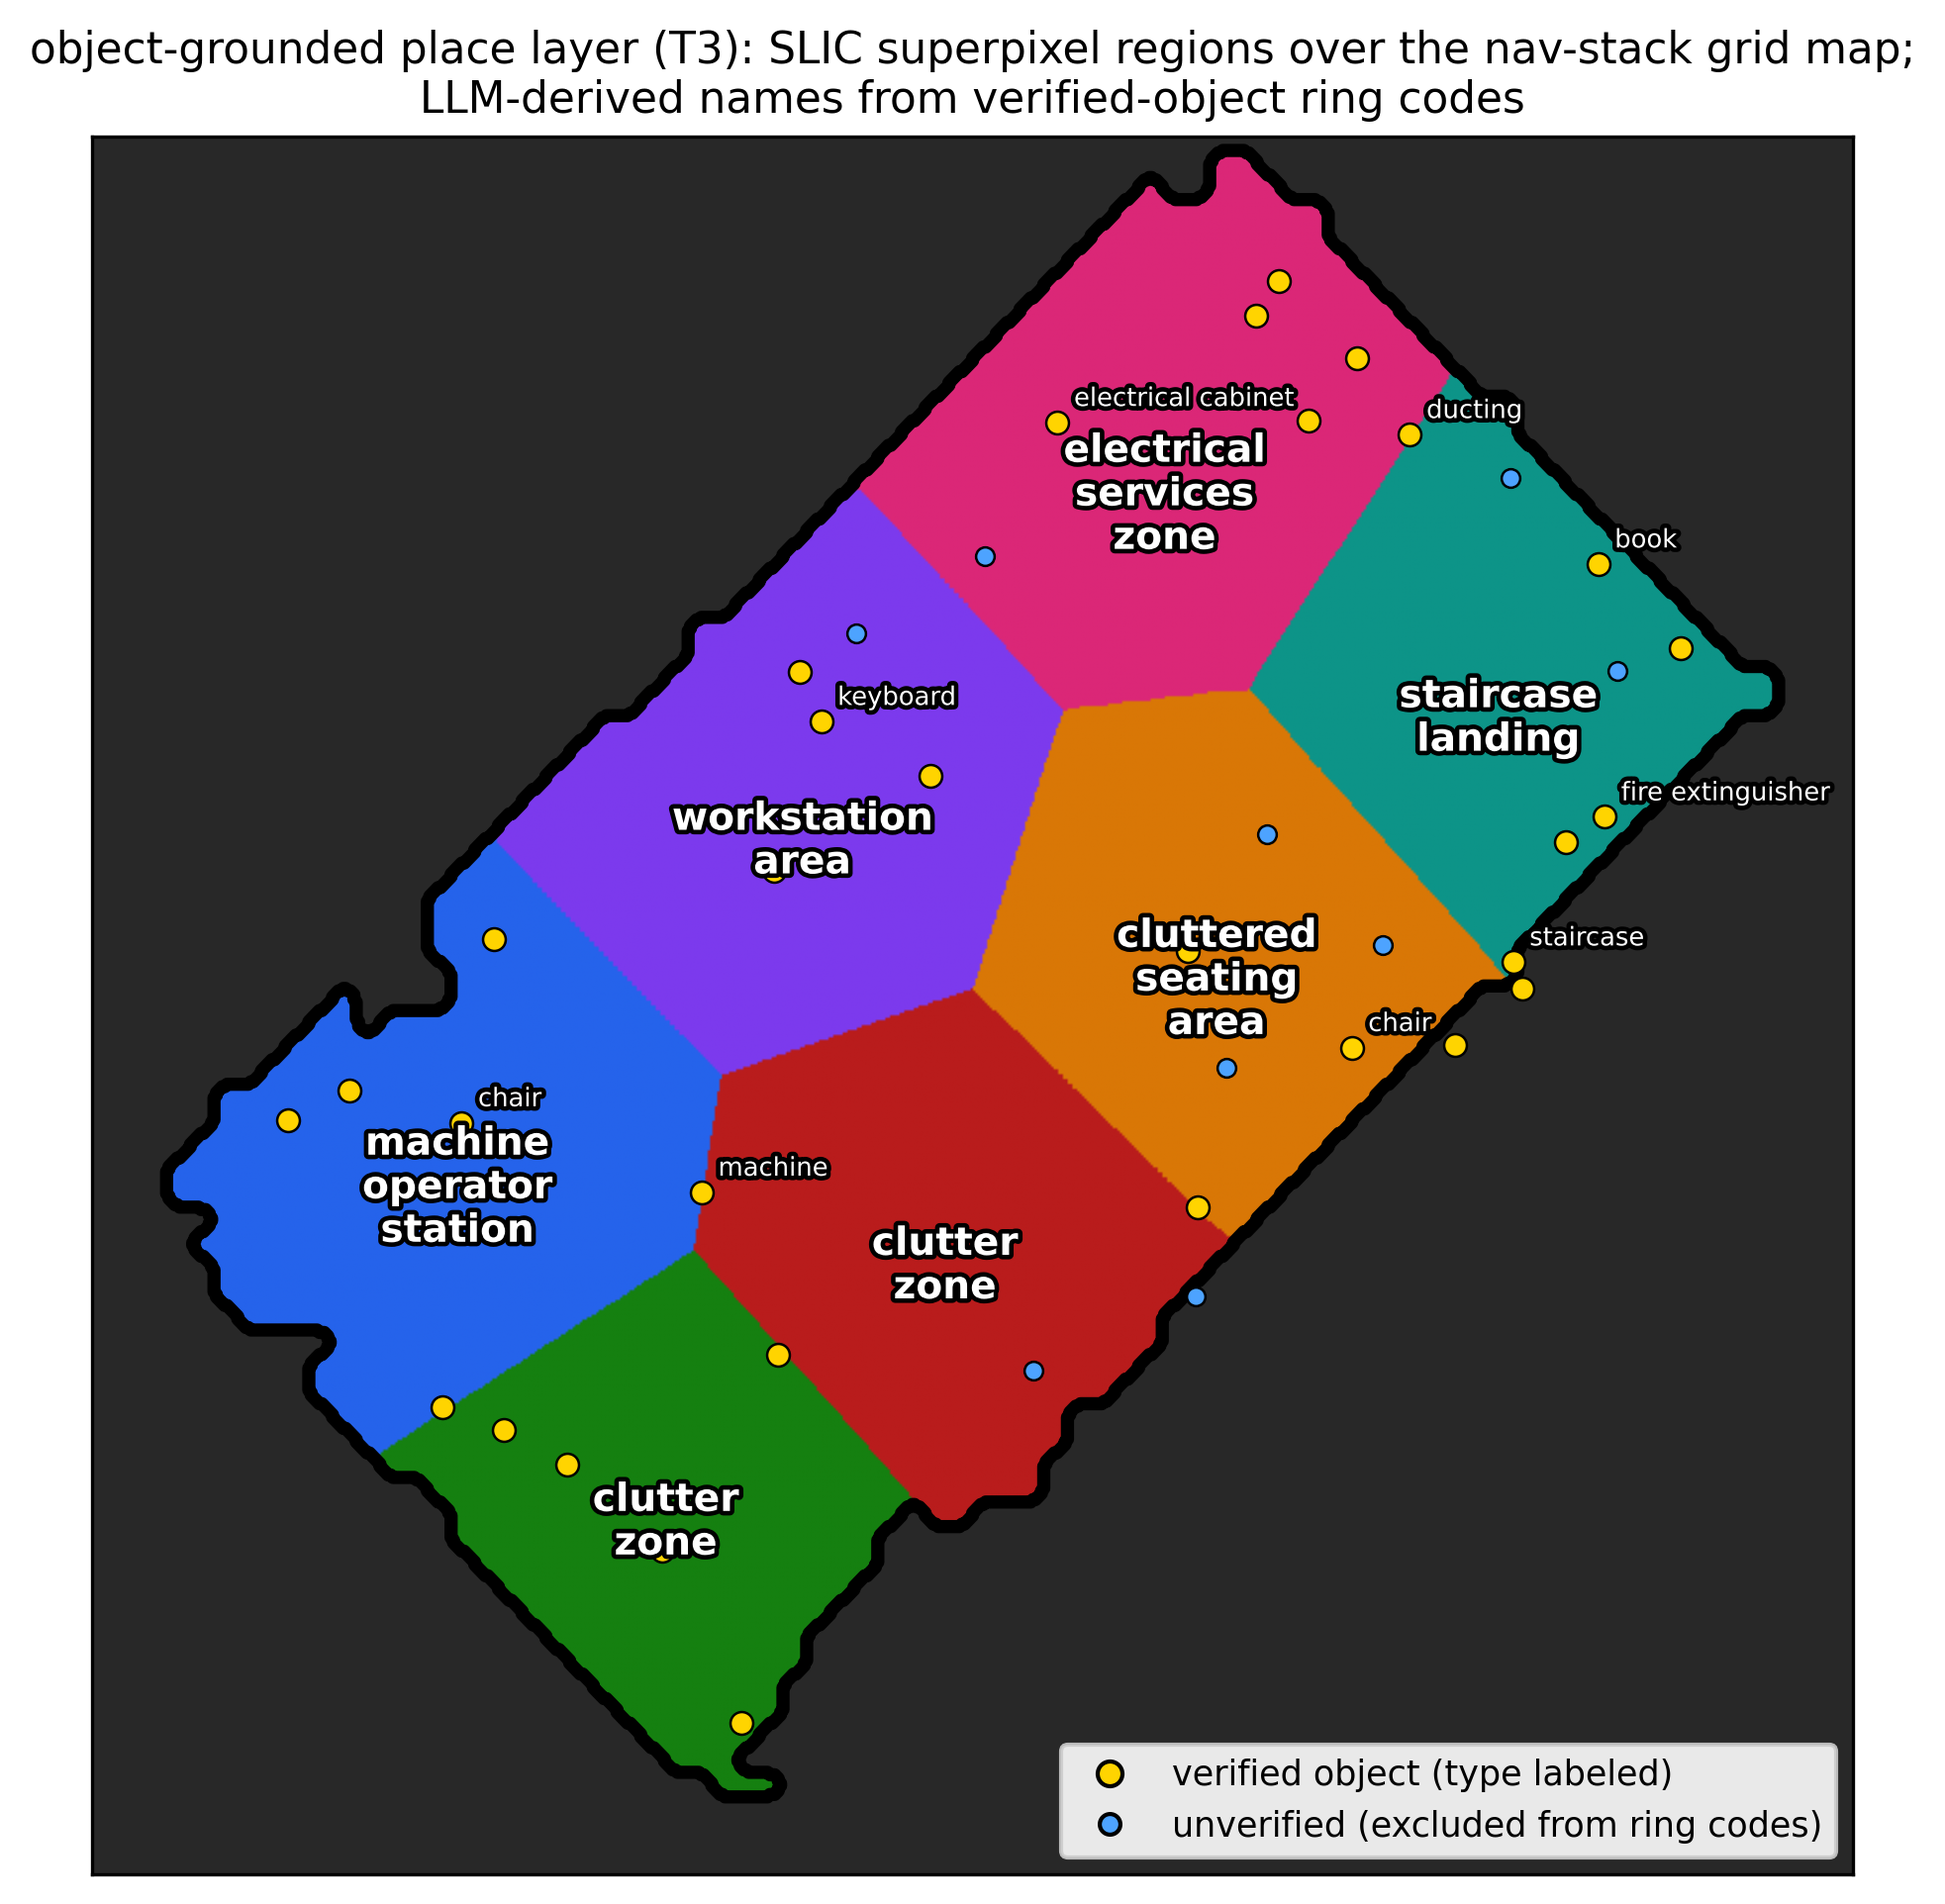
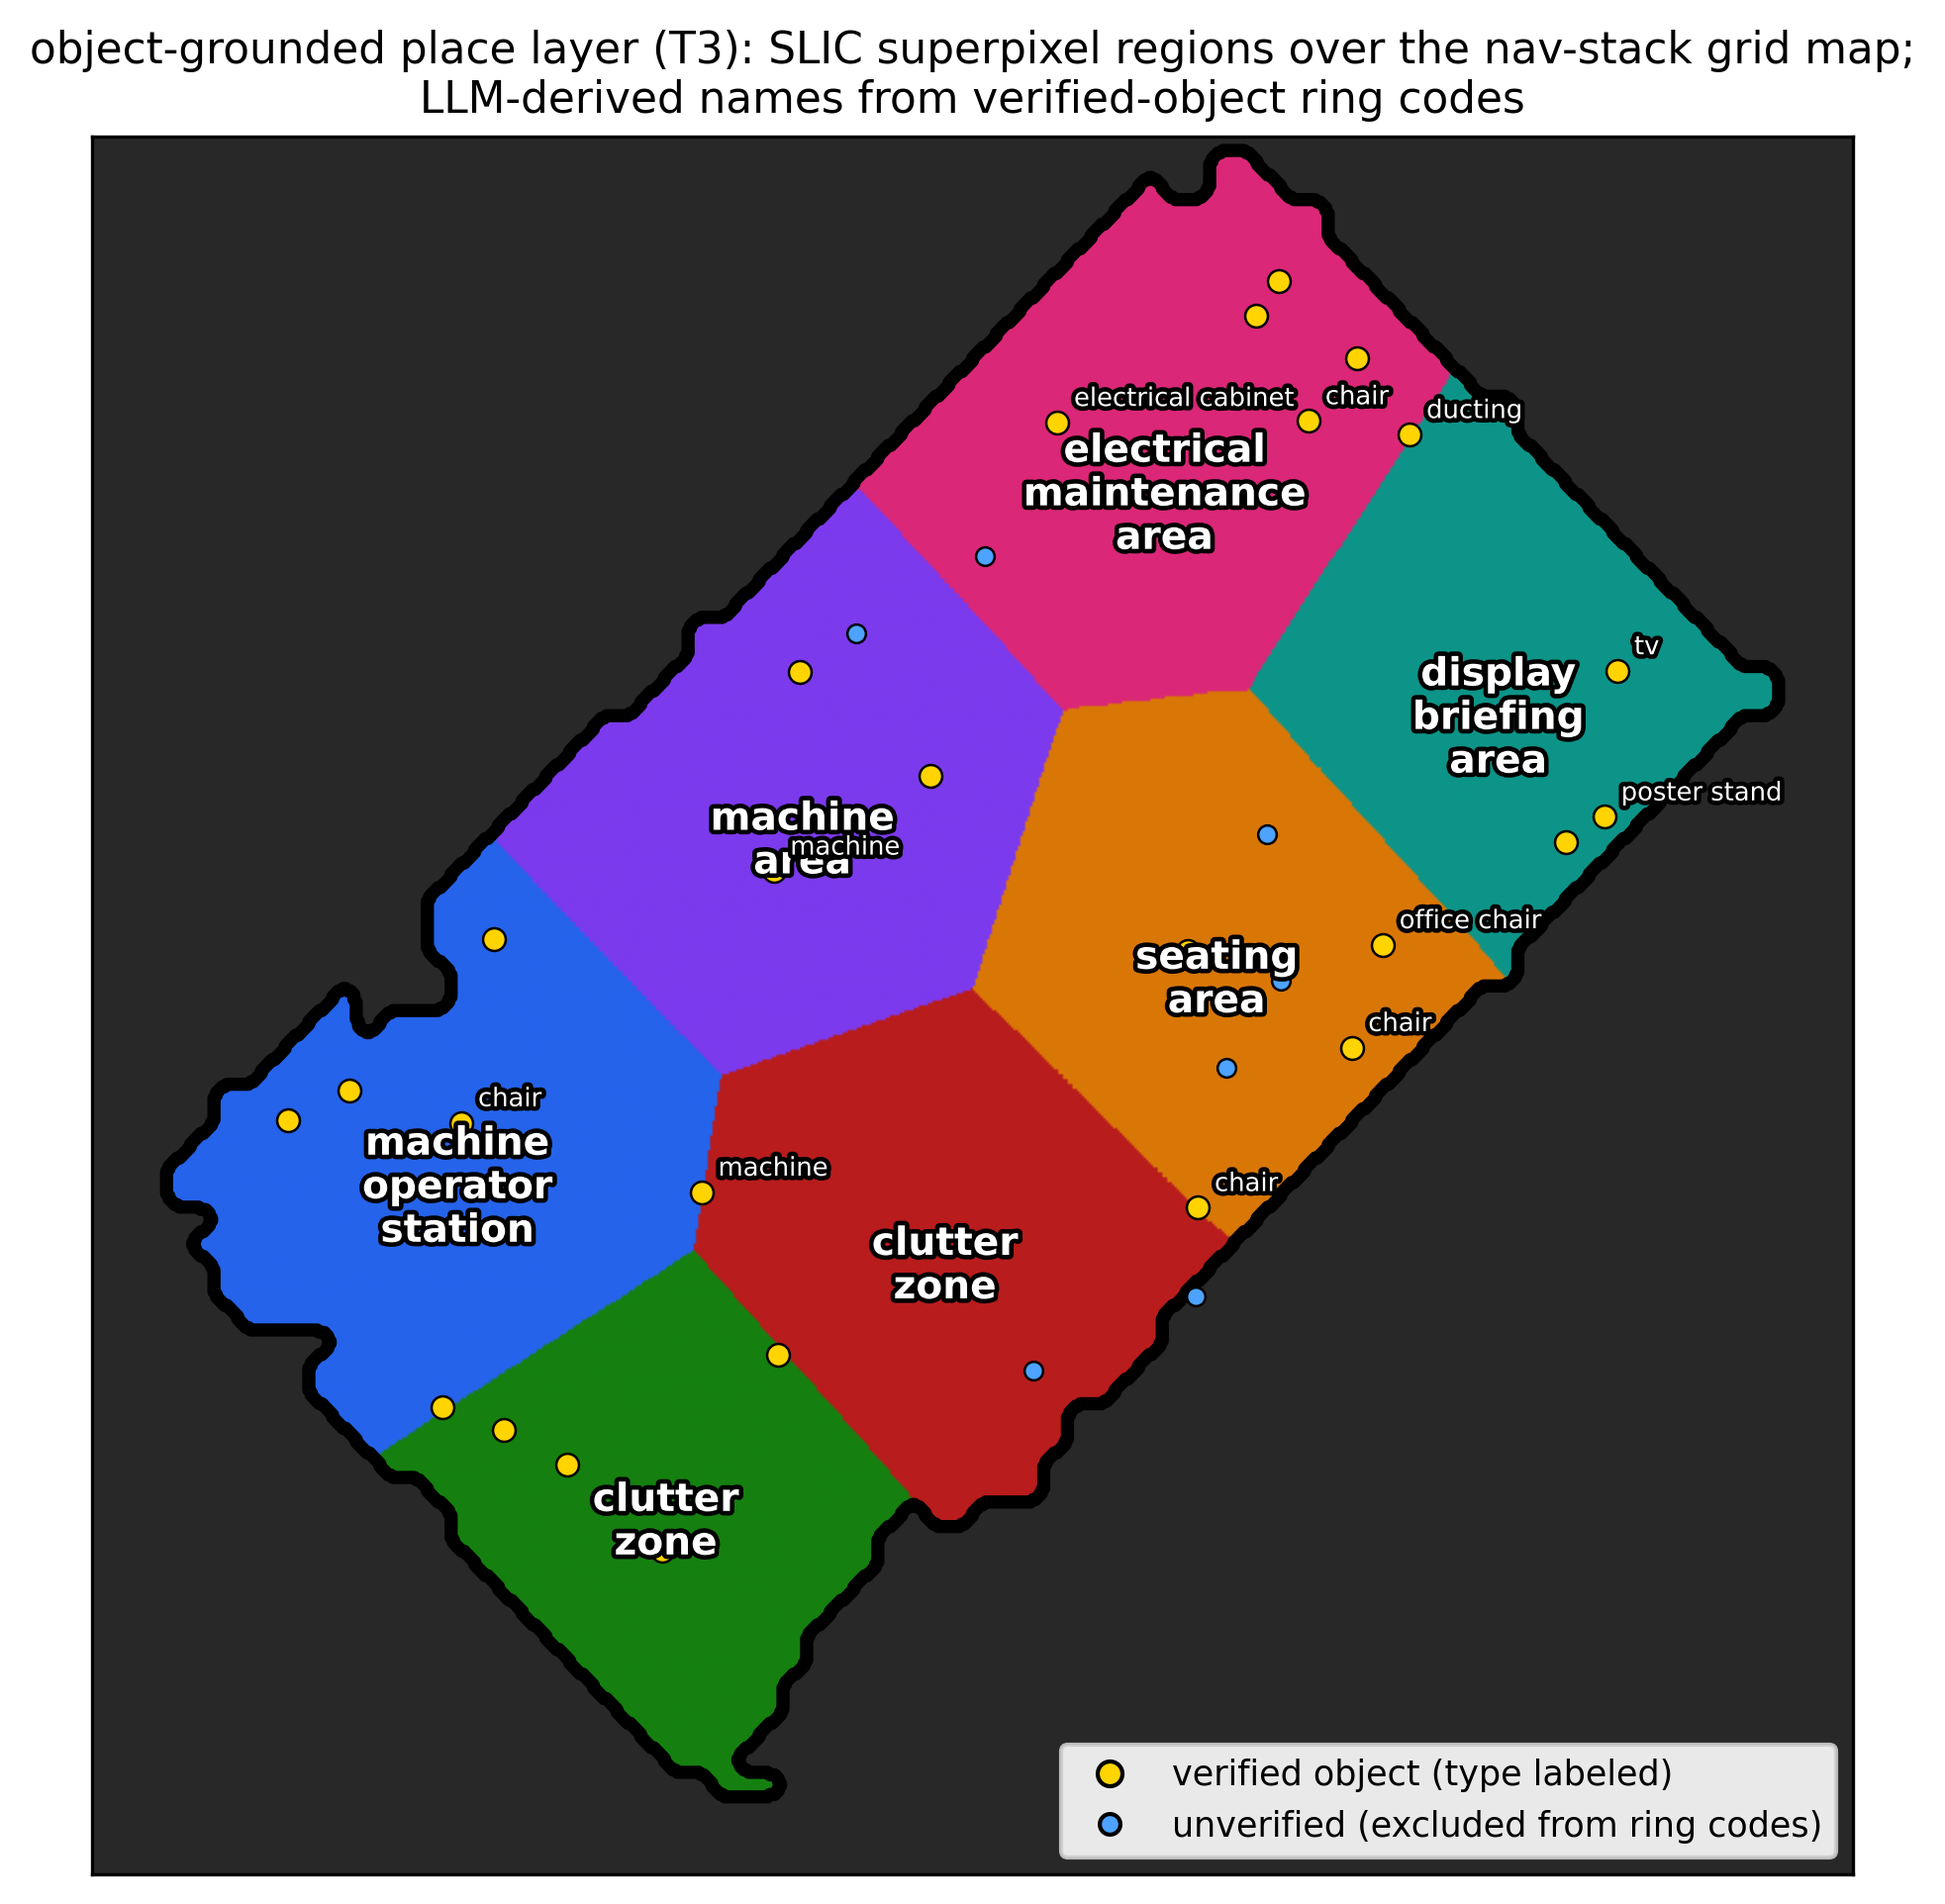
rev4 ring re-naming: staircase_landing->display_briefing_area, workstation_area->machine_area; fig11 markers from KG rev4; place-layer healing in 5.3

diff --git a/docs/electronics2026/manuscript/sec5_experiments.tex b/docs/electronics2026/manuscript/sec5_experiments.tex
@@ -261,7 +261,15 @@ adopted labels are applied as a fourth KG revision through the same
 upsert history mechanism as a rescan: eight phantoms leave the graph,
 the poster stand is corrected in place, five recovered types land, the
 TV becomes its region's key object, and the relation layer sheds nine
-noise-anchored edges (25 to 16 intra-place).
+noise-anchored edges (25 to 16 intra-place). Re-deriving ring codes and
+names from the revised graph heals the place layer end-to-end: the
+phantom-derived \texttt{staircase\_landing} becomes
+\texttt{display\_briefing\_area} (TV + poster stand), the
+keyboard-derived \texttt{workstation\_area} becomes
+\texttt{machine\_area}, and the seating region's recovered chairs turn
+\texttt{cluttered\_seating\_area} into \texttt{seating\_area} ---
+owner feedback propagates through all three layers of the model: object,
+relation, and place.
 
 \begin{figure}[t]
 \centering

diff --git a/docs/electronics2026/manuscript/sec4_methodology.tex b/docs/electronics2026/manuscript/sec4_methodology.tex
@@ -295,6 +295,10 @@ layer of TOSM is out of scope here.
 regions~\cite{achanta2012slic} tile the room interior delimited by the
 nav-stack grid map's outer boundary and carry LLM-derived names computed
 from verified-object ring codes; unverified objects (blue markers) do not
-contribute, so the confidence gate propagates into place semantics.}
+contribute, so the confidence gate propagates into place semantics. Shown
+after the owner-feedback revision (Sec.~\ref{sec:exp-verify}): with the
+phantoms refuted, the region once named after a phantom staircase renames
+itself \texttt{display\_briefing\_area} around the recovered TV and
+poster stand.}
 \label{fig:placemap}
 \end{figure}
